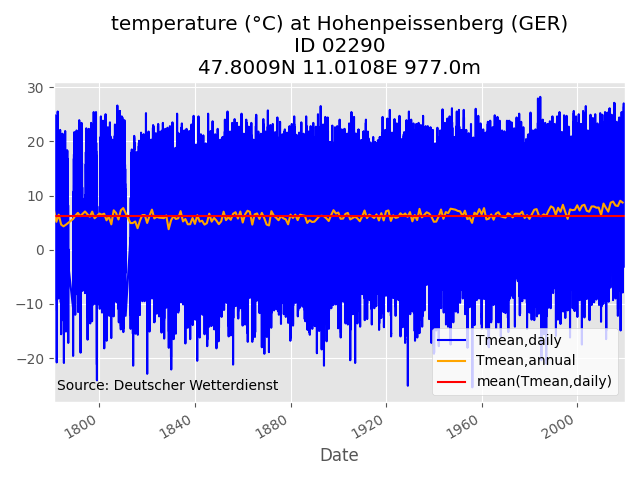
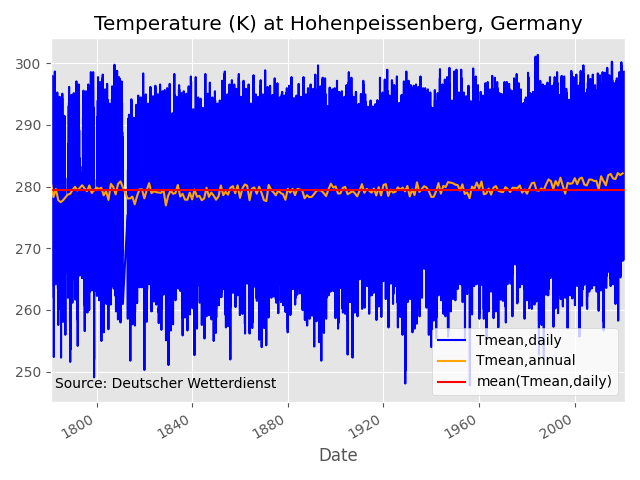
Create new images for readme

diff --git a/docs/img/readme_img.py b/docs/img/readme_img.py
@@ -5,8 +5,12 @@
 
 import matplotlib.pyplot as plt
 import pandas as pd
+from matplotlib import cm, colors
+from matplotlib.collections import PatchCollection
+from matplotlib.colors import ListedColormap
+from matplotlib.patches import Rectangle
 
-from wetterdienst.provider.dwd.observation import DwdObservationRequest, DwdObservationValues, DwdObservationParameter, DwdObservationParameterSet, DwdObservationResolution, DwdObservationPeriod
+from wetterdienst.provider.dwd.observation import DwdObservationRequest, DwdObservationValues, DwdObservationParameter, DwdObservationDataset, DwdObservationResolution, DwdObservationPeriod
 
 plt.style.use('ggplot')
 
@@ -14,36 +18,24 @@ plt.style.use('ggplot')
 def create_temperature_ts_plot():
     """ Create plot for README sketch """
     stations = DwdObservationRequest(
-        DwdObservationParameterSet.CLIMATE_SUMMARY,
+        "temperature_air_200",
         DwdObservationResolution.DAILY,
         DwdObservationPeriod.HISTORICAL
-    )
+    ).filter_by_name("Hohenpeissenberg")
 
-    df = stations.all()
+    df = stations.values.all().df
 
-    station_id, _, _, height, lat, lon, name, state = df.sort_values("FROM_DATE").iloc[0].values
-    name = name.replace(u"ß", "ss")
+    df_annual = df.groupby(df.date.dt.year)["value"].mean().reset_index()
+    df_annual["date"] = pd.to_datetime(df_annual["date"], format="%Y")
 
-    data = DwdObservationValues(
-        [station_id],
-        DwdObservationParameter.DAILY.TEMPERATURE_AIR_200,
-        DwdObservationResolution.DAILY,
-        period=[DwdObservationPeriod.HISTORICAL]
-    )
-
-    df = data.all()
-
-    df_annual = df.groupby(df.DATE.dt.year)["VALUE"].mean().reset_index()
-    df_annual["DATE"] = pd.to_datetime(df_annual["DATE"], format="%Y")
-
-    temp_mean = df["VALUE"].mean()
+    temp_mean = df["value"].mean()
 
     fig, ax = plt.subplots(tight_layout=True)
 
     df.plot(
-        "DATE", "VALUE", ax=ax, color="blue", label="Tmean,daily", legend=False)
+        "date", "value", ax=ax, color="blue", label="Tmean,daily", legend=False)
     df_annual.plot(
-        "DATE", "VALUE", ax=ax, color="orange", label="Tmean,annual", legend=False)
+        "date", "value", ax=ax, color="orange", label="Tmean,annual", legend=False)
     ax.axhline(y=temp_mean, color="red", label="mean(Tmean,daily)")
 
     ax.text(
@@ -57,9 +49,7 @@ def create_temperature_ts_plot():
 
     ax.set_xlabel("Date")
 
-    title = f"temperature (°C) at {name} (GER)\n" \
-            f"ID {station_id}\n" \
-            f"{lat}N {lon}E {height}m"
+    title = f"Temperature (K) at Hohenpeissenberg, Germany"
     ax.set_title(title)
     ax.legend(facecolor="white")
 
@@ -68,8 +58,156 @@ def create_temperature_ts_plot():
     plt.savefig(f"temperature_ts.png")
 
 
+def create_weather_stations_map():
+    """ Create map of DWD weather stations in Germany """
+    stations = DwdObservationRequest(
+        DwdObservationDataset.CLIMATE_SUMMARY,
+        DwdObservationResolution.DAILY,
+        DwdObservationPeriod.HISTORICAL
+    )
+
+    stations_df = stations.all().df
+
+    fig, ax = plt.subplots()
+
+    # Rainbow colormap
+    cmap = colors.LinearSegmentedColormap.from_list(
+        "",
+        [
+            '#86007D',
+            '#0000F9',
+            '#008018',
+            '#FFFF41',
+            '#FFA52C',
+            '#FF0018',
+         ]
+    )
+
+    bounds = stations_df.height.quantile(
+        [
+            0,
+            0.16666667,
+            0.33333333,
+            0.5,
+            0.66666667,
+            0.83333333,
+            1
+         ]).values
+
+    norm = colors.BoundaryNorm(bounds, cmap.N)
+
+    stations_df = stations_df.rename(columns={"height": "Height [m]"})
+
+    stations_df.plot.scatter(x="longitude", y="latitude", c="Height [m]", cmap=cmap, norm=norm, ax=ax)
+
+    ax.set_xlabel("Longitude [°]")
+    ax.set_ylabel("Latitude [°]")
+    ax.set_title("German weather stations")
+
+    ax.text(
+        0.3,
+        0.05,
+        "Source: Deutscher Wetterdienst",
+        ha='center',
+        va='center',
+        transform=ax.transAxes
+    )
+
+    plt.savefig("german_weather_stations.png")
+
+    return
+
+
+def create_hohenpeissenberg_warming_stripes():
+    """ Create warming stripes for Potsdam
+    Source: https://matplotlib.org/matplotblog/posts/warming-stripes/
+    """
+    request = DwdObservationRequest(
+        "temperature_air_200",
+        DwdObservationResolution.ANNUAL,
+        DwdObservationPeriod.HISTORICAL
+    ).filter_by_name("Hohenpeissenberg")
+
+    values_df = request.values.all().df
+
+    # Definition of years
+    first_year = 1781
+    last_year = 2020
+
+    first_ref = 1971
+    last_ref = 2000
+
+    lim = 0.7  # degrees
+
+    anomaly = values_df.loc[:, 'value']
+
+    reference = anomaly.loc[
+        ((values_df.from_date.dt.year >= first_ref) &
+        (values_df.from_date.dt.year <= last_ref))
+    ].mean()
+
+    fig, ax = plt.subplots()
+
+    cmap = ListedColormap([
+        '#08306b', '#08519c', '#2171b5', '#4292c6',
+        '#6baed6', '#9ecae1', '#c6dbef', '#deebf7',
+        '#fee0d2', '#fcbba1', '#fc9272', '#fb6a4a',
+        '#ef3b2c', '#cb181d', '#a50f15', '#67000d',
+    ])
+
+    ax.set_axis_off()
+
+    col = PatchCollection([
+        Rectangle((y, 0), 1, 1)
+        for y in range(first_year, last_year + 1)
+    ])
+
+    # set data, colormap and color limits
+    col.set_array(anomaly)
+    col.set_cmap(cmap)
+    col.set_clim(reference - lim, reference + lim)
+    ax.add_collection(col)
+
+    ax.set_ylim(0, 1)
+    ax.set_xlim(first_year, last_year + 1)
+
+    ax.set_title("Warming stripes for Hohenpeissenberg, Germany\n"
+                 "Reference period: 1971 - 2000")
+
+    ax.text(
+        0.05,
+        -0.05,
+        f"{first_year}",
+        ha='center',
+        va='center',
+        transform=ax.transAxes
+    )
+
+    ax.text(
+        0.95,
+        -0.05,
+        f"{last_year}",
+        ha='center',
+        va='center',
+        transform=ax.transAxes
+    )
+
+    ax.text(
+        0.5,
+        -0.05,
+        f"Source: Deutscher Wetterdienst",
+        ha='center',
+        va='center',
+        transform=ax.transAxes
+    )
+
+    plt.savefig(f"hohenpeissenberg_warming_stripes.png")
+
+
 def main():
     create_temperature_ts_plot()
+    create_weather_stations_map()
+    create_hohenpeissenberg_warming_stripes()
 
 
 if __name__ == "__main__":

diff --git a/README.rst b/README.rst
@@ -3,12 +3,21 @@ Wetterdienst - Open weather data for humans
 
 .. container:: align-center
 
+    .. figure:: https://raw.githubusercontent.com/earthobservations/wetterdienst/main/docs/img/german_weather_stations.png
+        :alt: German weather stations managed by Deutscher Wetterdienst
+
+    *“You must be the change you wish to see in the world.” — Gandhi*
+
     .. figure:: https://raw.githubusercontent.com/earthobservations/wetterdienst/main/docs/img/temperature_ts.png
         :alt: temperature timeseries of Hohenpeissenberg/Germany
 
     *"Three things are (almost) infinite: the universe, human stupidity and the temperature time series of
     Hohenpeissenberg I got with the help of wetterdienst; and I'm not sure about the universe." - Albert Einstein*
 
+    .. figure:: https://raw.githubusercontent.com/earthobservations/wetterdienst/main/docs/img/hohenpeissenberg_warming_stripes.png
+        :alt: warming stripes of Hohenpeissenberg/Germany
+
+    *"We are the first generation to feel the effect of climate change and the last generation who can do something about it." - Barack Obama*
 
 .. overview_start_marker
 
